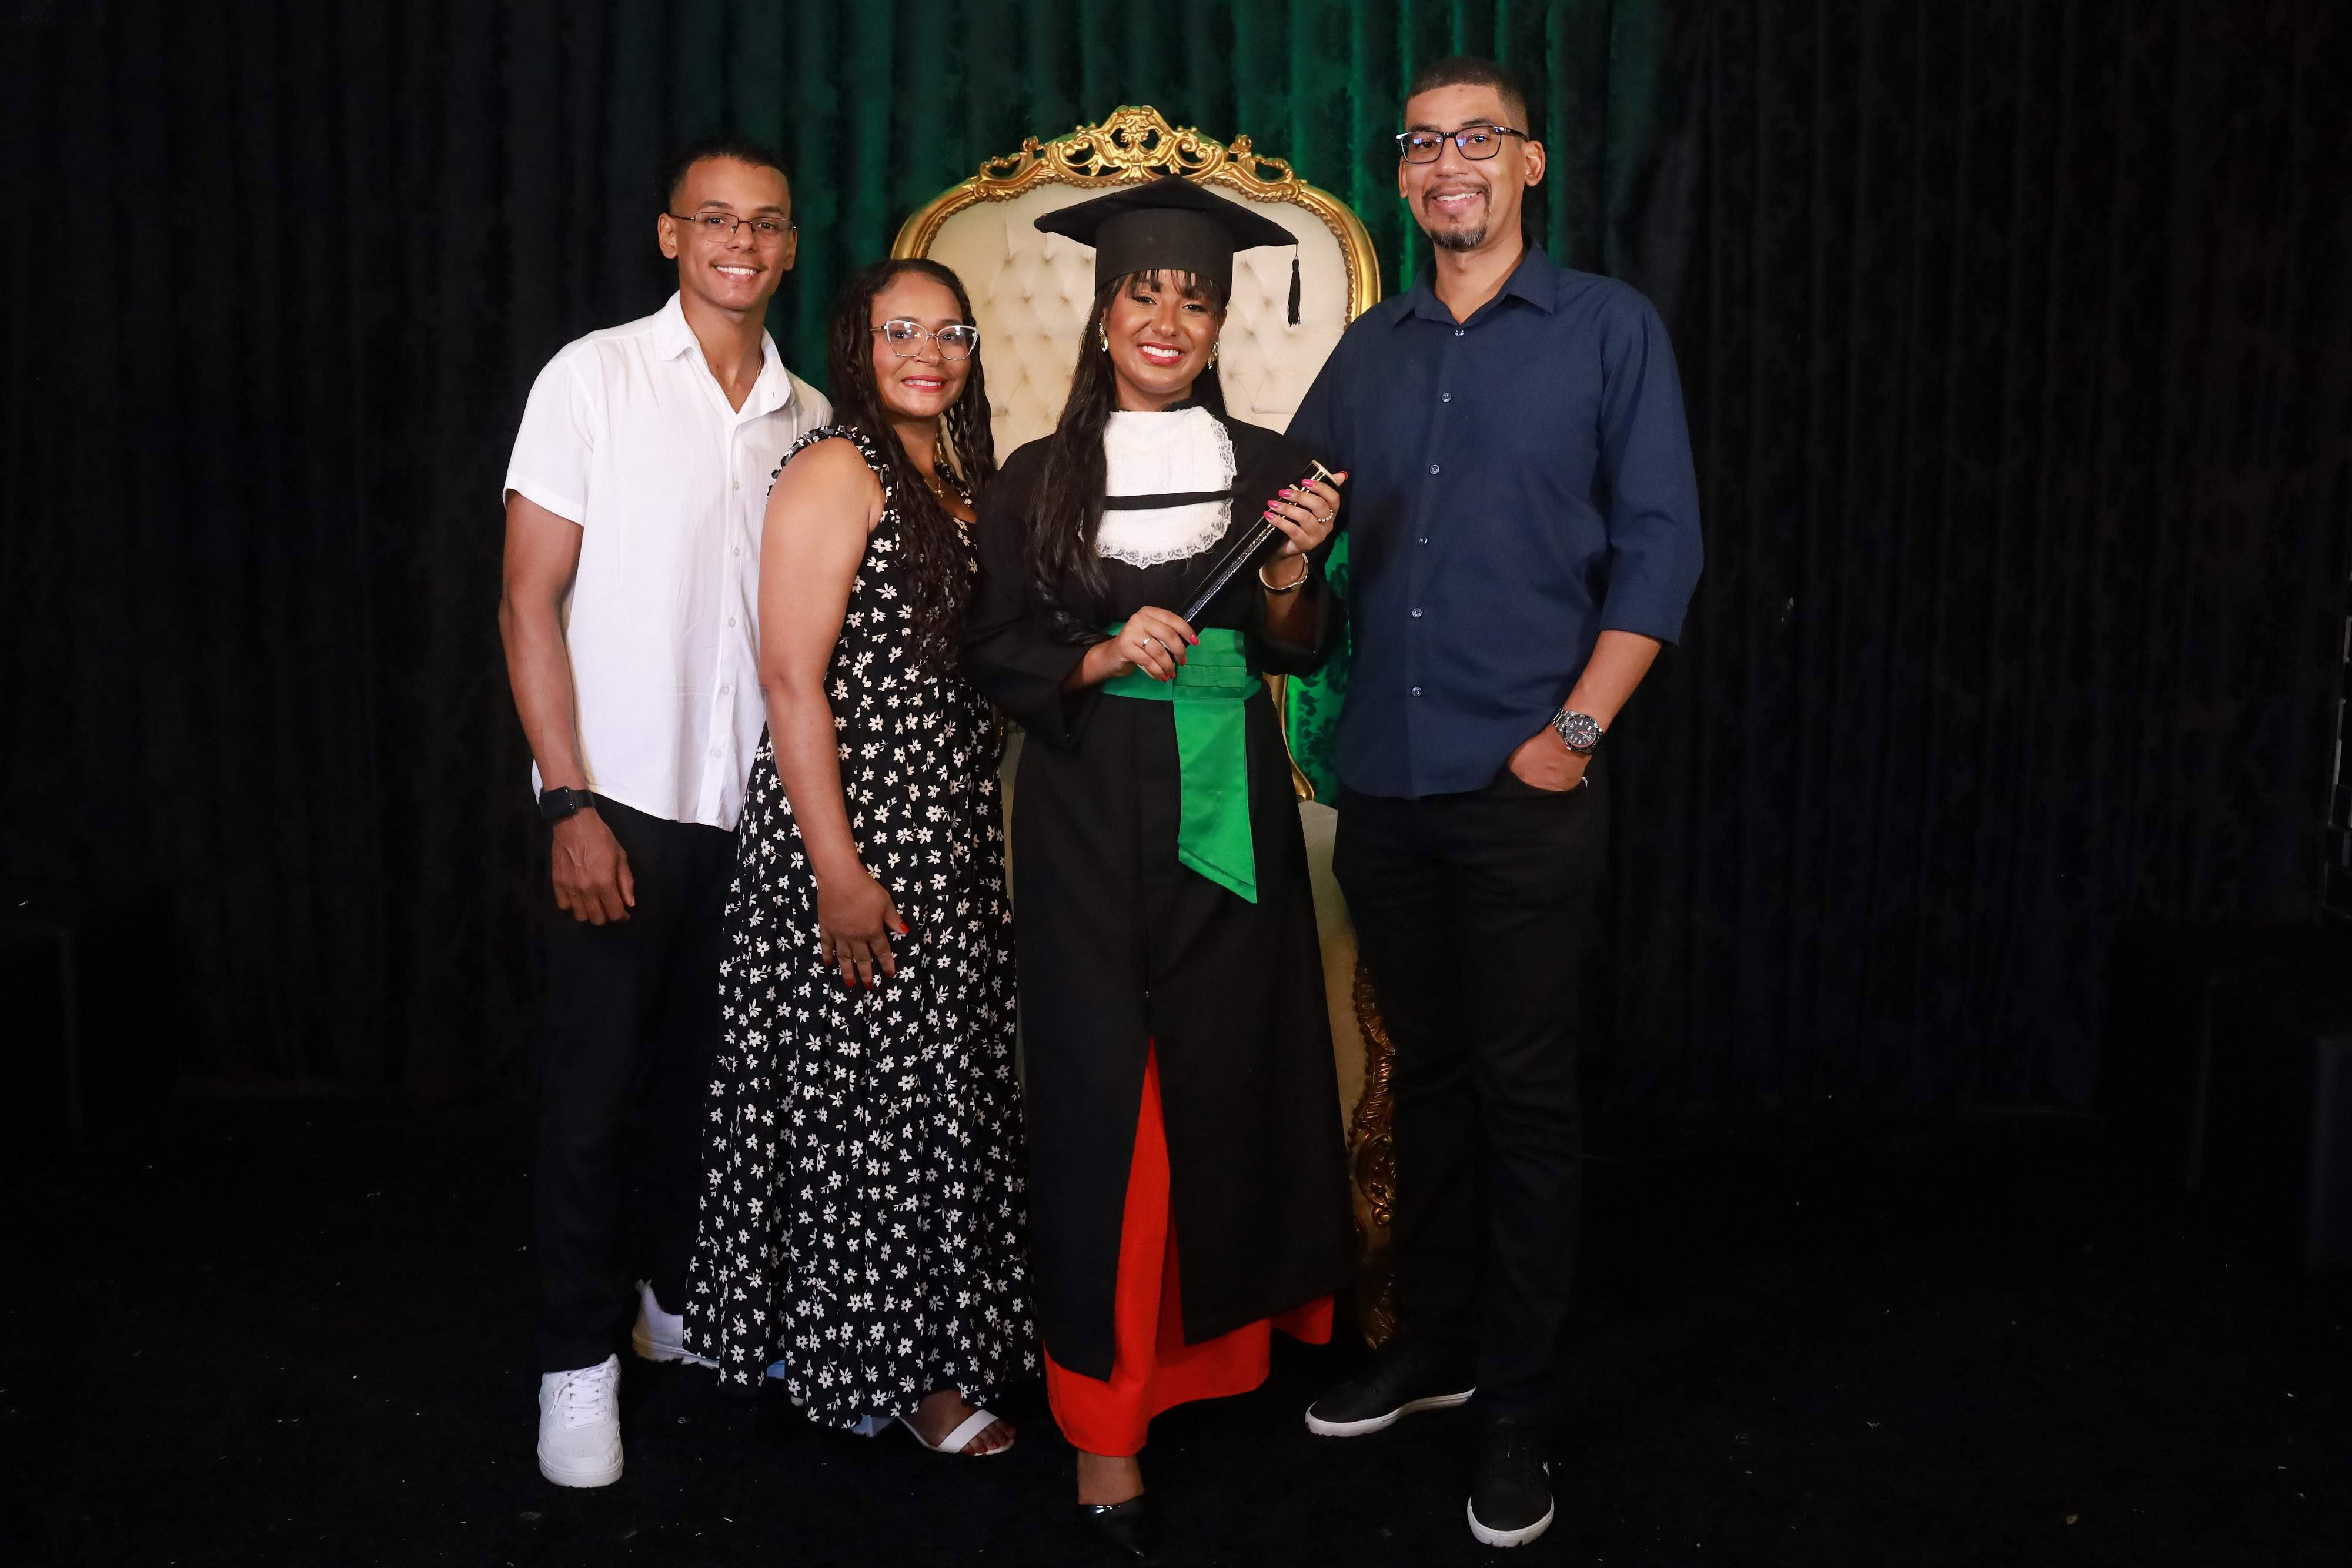
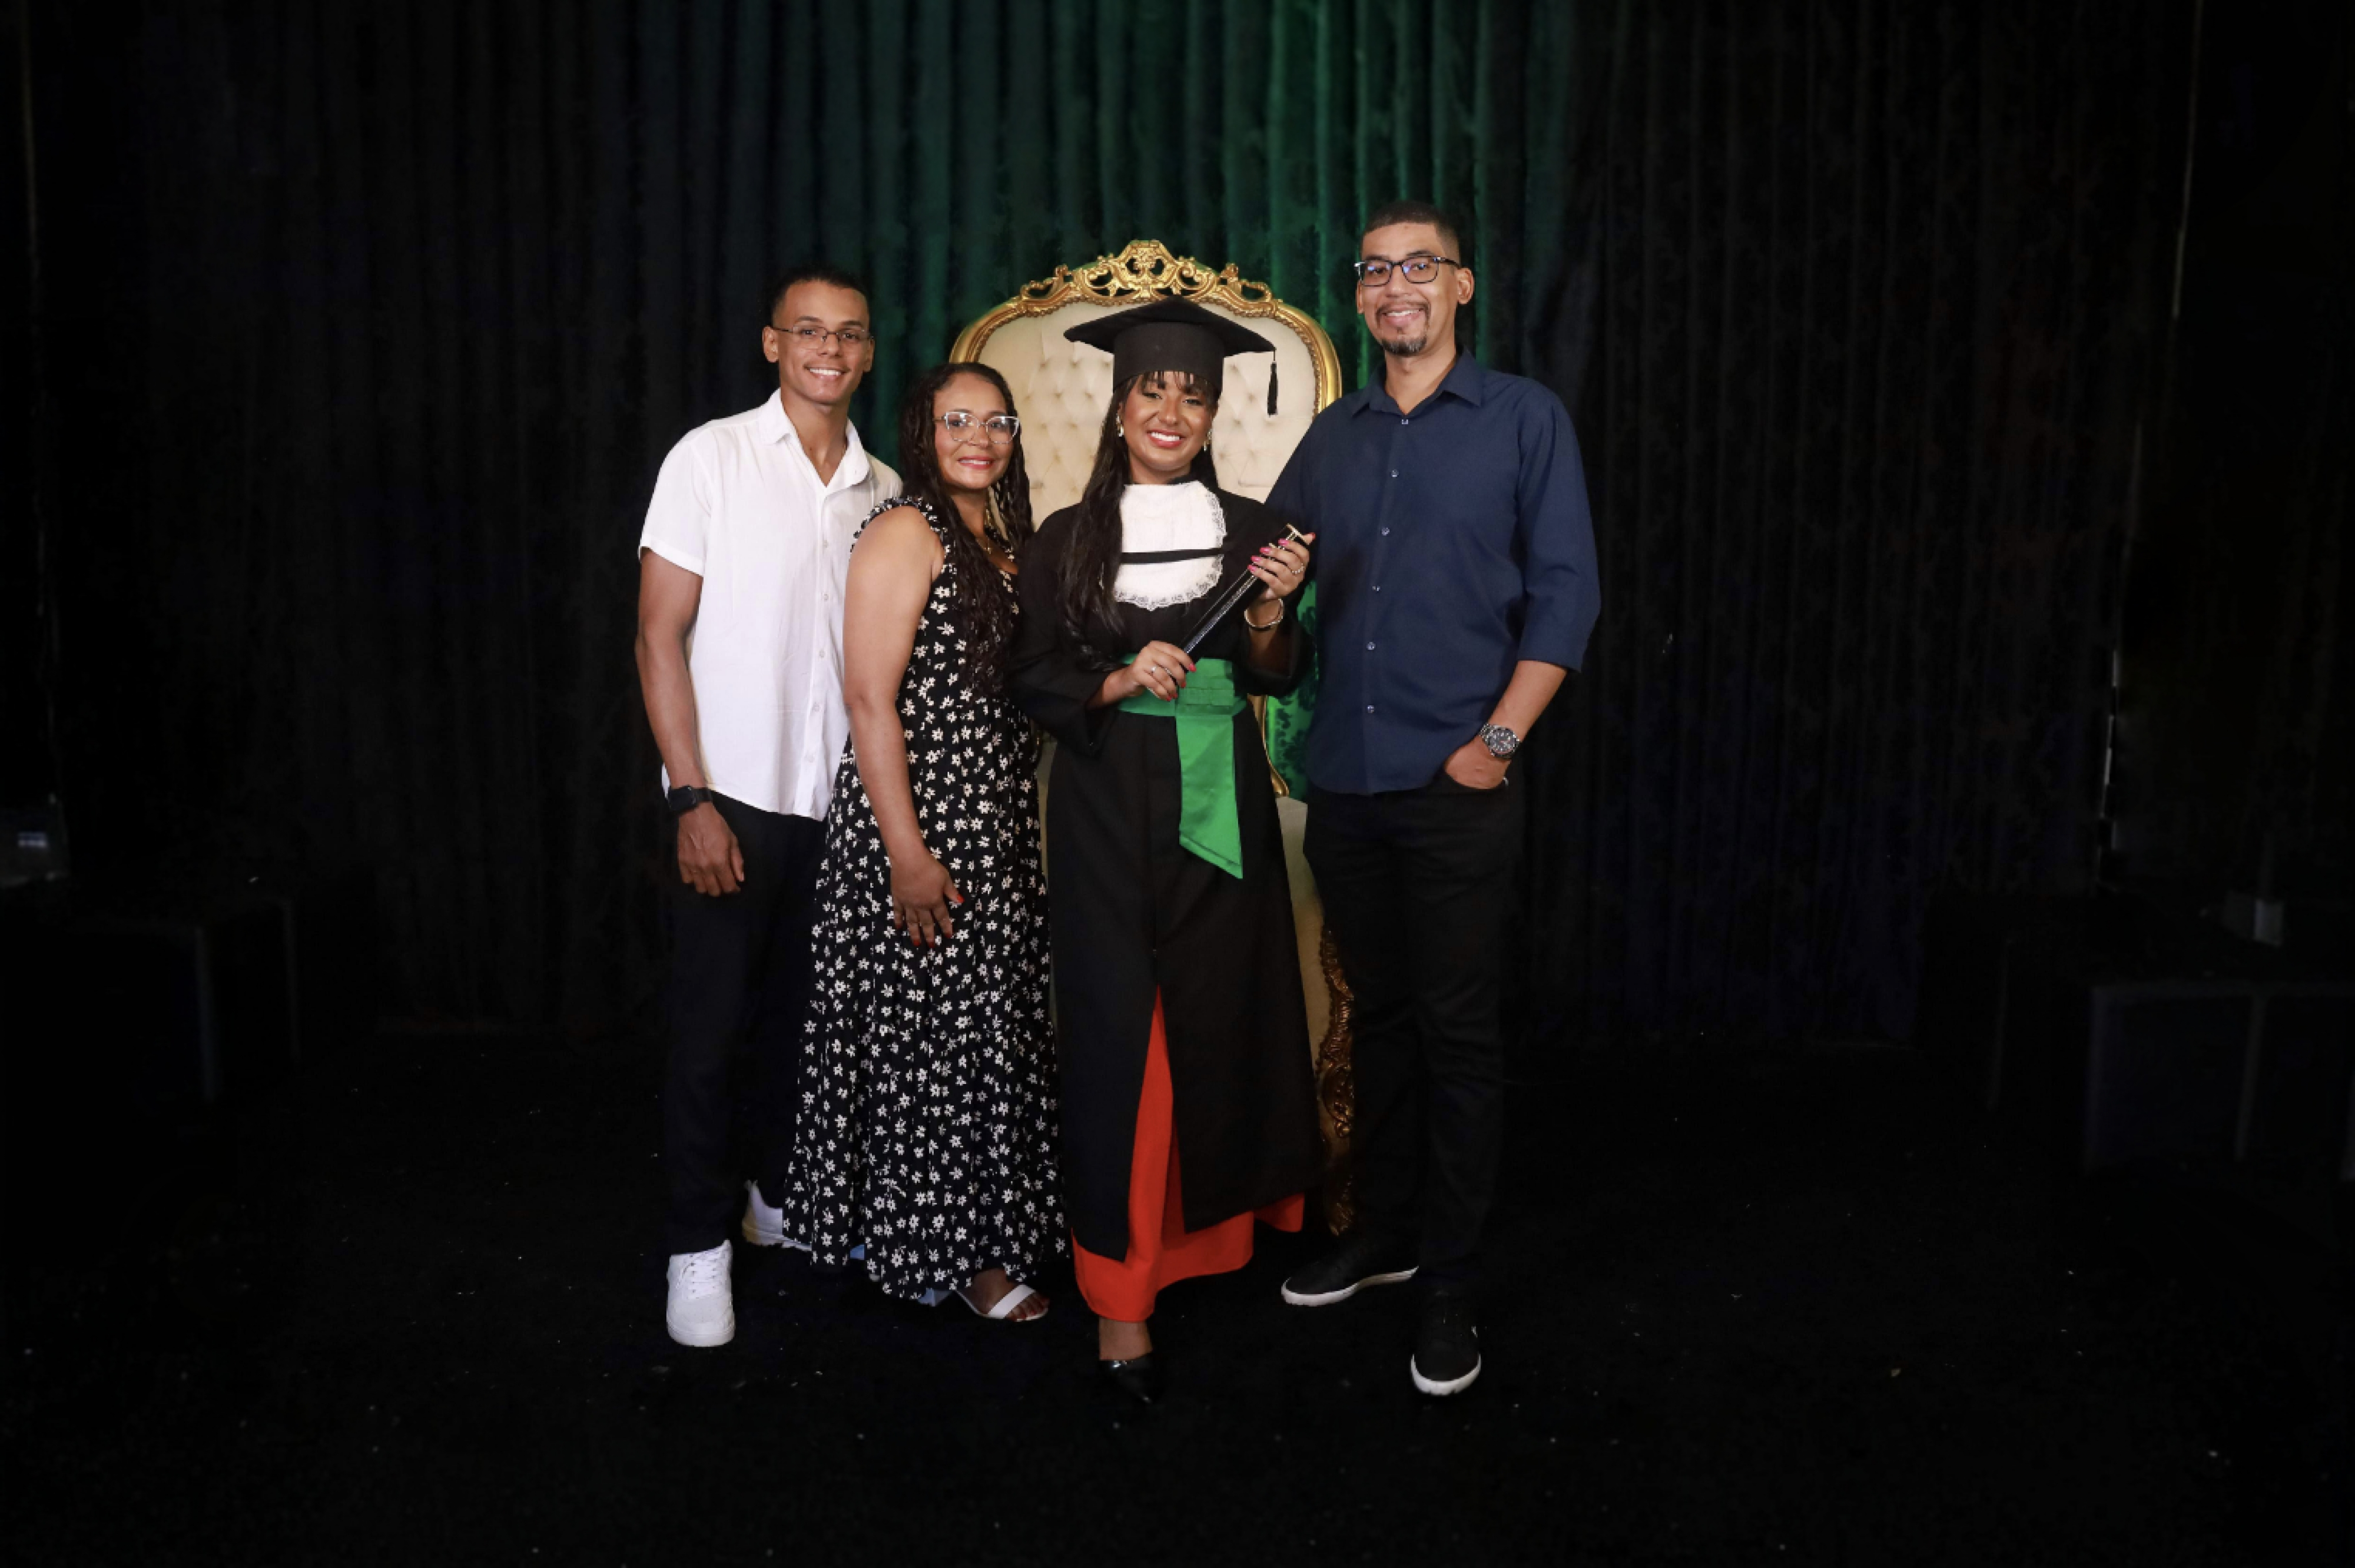
navegação

diff --git a/index.html b/index.html
@@ -675,11 +675,11 @@
     .agr-familia-section {
       position: relative;
       width: 100%;
-      padding-top: 60vw; /* Empurra o texto pra baixo para mostrar os rostos no topo */
+      padding-top: 90vw; /* Empurra o texto pra baixo para mostrar os rostos no topo */
       margin-top: 0;
     }
     @media (min-width: 768px) {
-      .agr-familia-section { padding-top: 50vh; }
+      .agr-familia-section { padding-top: 65vh; }
     }
 
     .agr-familia-bg {
@@ -703,16 +703,17 @@
       width: 100%;
       max-width: 800px;
       margin: 0 auto;
-      padding: 2rem 1.2rem 4rem;
+      padding: 0 1.2rem;
     }
 
     /* Porta-Retrato Digital da Família Completa */
     .agr-familia-completa {
       width: 100%;
-      margin: 2rem 0 0;
+      margin: 6rem 0 0;
       padding: 0;
       position: relative;
       z-index: 2;
+      background: linear-gradient(to bottom, transparent 75%, var(--black) 100%);
     }
     .agr-familia-completa img {
       width: 100%;
@@ -796,11 +797,13 @@
     ═══════════════════════════════════════════ */
     #rsvp {
       background: var(--green);
-      height: auto;
-      min-height: auto;
+      height: 100dvh; /* Garante que a tela preencha tudo e elimine a barra preta da proxima seçao */
+      min-height: 100dvh;
       padding: 4rem 1.2rem;
       position: relative;
       justify-content: center;
+      display: flex;
+      flex-direction: column;
     }
 
     .rsvp-glass-card {
@@ -1176,10 +1179,142 @@
       .cd-grid, .ev-list { max-width: 700px; }
       .rsvp-form { max-width: 480px; }
     }
+    /* ═══════════════════════════════════════════
+       HAMBURGER MENU & BUTTONS
+    ═══════════════════════════════════════════ */
+    #menu-btn {
+      position: fixed;
+      top: calc(env(safe-area-inset-top, 1.2rem) + 1.2rem);
+      left: 1.4rem;
+      z-index: 100;
+      background: rgba(13, 26, 18, 0.4);
+      backdrop-filter: blur(8px);
+      -webkit-backdrop-filter: blur(8px);
+      border: 1px solid rgba(201, 168, 76, 0.3);
+      border-radius: 50%;
+      width: 44px;
+      height: 44px;
+      display: flex;
+      flex-direction: column;
+      justify-content: center;
+      align-items: center;
+      gap: 5px;
+      cursor: pointer;
+      transition: background 0.3s ease;
+    }
+    #menu-btn:hover { background: rgba(13, 26, 18, 0.8); }
+    .menu-bar {
+      width: 20px;
+      height: 2px;
+      background: var(--gold);
+      transition: transform 0.3s ease, opacity 0.3s ease;
+    }
+    #menu-btn.open .menu-bar:nth-child(1) {
+      transform: translateY(7px) rotate(45deg);
+    }
+    #menu-btn.open .menu-bar:nth-child(2) {
+      opacity: 0;
+    }
+    #menu-btn.open .menu-bar:nth-child(3) {
+      transform: translateY(-7px) rotate(-45deg);
+    }
+
+    #menu-overlay {
+      position: fixed;
+      inset: 0;
+      background: rgba(0, 18, 11, 0.9);
+      backdrop-filter: blur(15px);
+      -webkit-backdrop-filter: blur(15px);
+      z-index: 90;
+      display: flex;
+      justify-content: center;
+      align-items: center;
+      opacity: 0;
+      pointer-events: none;
+      transition: opacity 0.4s ease;
+    }
+    #menu-overlay.open {
+      opacity: 1;
+      pointer-events: auto;
+    }
+
+    .menu-content {
+      display: flex;
+      flex-direction: column;
+      align-items: center;
+      gap: 2rem;
+      text-align: center;
+    }
+    .menu-link {
+      font-family: var(--font-serif);
+      font-size: clamp(1.8rem, 6vw, 2.5rem);
+      color: var(--cream);
+      text-decoration: none;
+      text-transform: uppercase;
+      letter-spacing: 0.1em;
+      opacity: 0;
+      transform: translateY(20px);
+      transition: color 0.3s ease;
+    }
+    #menu-overlay.open .menu-link {
+      animation: menuReveal 0.5s ease forwards;
+    }
+    #menu-overlay.open .menu-link:nth-child(1) { animation-delay: 0.1s; }
+    #menu-overlay.open .menu-link:nth-child(2) { animation-delay: 0.2s; }
+    #menu-overlay.open .menu-link:nth-child(3) { animation-delay: 0.3s; }
+    #menu-overlay.open .menu-link:nth-child(4) { animation-delay: 0.4s; }
+    #menu-overlay.open .menu-link:nth-child(5) { animation-delay: 0.5s; }
+
+    .menu-link:hover, .menu-link:active {
+      color: var(--gold);
+    }
+    
+    @keyframes menuReveal {
+      to { opacity: 1; transform: translateY(0); }
+    }
+    
+    .btn-hero {
+      display: inline-block;
+      margin-top: 1.5rem;
+      padding: 0.8rem 2rem;
+      background: var(--gold);
+      color: var(--black);
+      text-decoration: none;
+      font-family: var(--font-sans);
+      font-weight: 600;
+      letter-spacing: 0.15em;
+      text-transform: uppercase;
+      font-size: 0.85rem;
+      border-radius: 4px;
+      transition: background 0.3s ease;
+      opacity: 0;
+      animation: fadeIn 0.8s ease 2.2s forwards;
+    }
+    .btn-hero:hover {
+      background: var(--cream);
+    }
   </style>
 </head>
 <body>
 
+<!-- ════════════════════════════════
+     HAMBURGER MENU
+════════════════════════════════ -->
+<button id="menu-btn" aria-label="Abrir menu" aria-expanded="false">
+  <span class="menu-bar"></span>
+  <span class="menu-bar"></span>
+  <span class="menu-bar"></span>
+</button>
+
+<div id="menu-overlay" aria-hidden="true">
+  <div class="menu-content">
+    <a href="#hero" class="menu-link">Início</a>
+    <a href="#event" class="menu-link">O Evento</a>
+    <a href="#agradecimentos" class="menu-link">Agradecimentos</a>
+    <a href="#turma" class="menu-link">A Turma</a>
+    <a href="#rsvp" class="menu-link">Confirmar Presença</a>
+  </div>
+</div>
 <!-- ════════════════════════════════
      SPLASH SCREEN
 ════════════════════════════════ -->
@@ -1226,6 +1361,7 @@
       <h1 class="hero-name" id="hero-name" aria-label="Ludmila Paixão">LUDMILA PAIXÃO</h1>
       <div class="hero-divider" aria-hidden="true"></div>
       <p class="hero-phrase">Uma nova história começa aqui.</p>
+      <a href="#rsvp" class="btn-hero" onclick="scrollToRsvp(event)">Confirmar Presença</a>
     </div>
 
     <div class="scroll-hint" aria-hidden="true">
@@ -1265,38 +1401,7 @@
     <div class="typographic-ornament reveal d4">— ✦ —</div>
   </section>
 
-  <!-- ──── RSVP (REPOSICIONADO PARA TOPO) ──── -->
-  <section id="rsvp" aria-label="Confirmar presença">
-    <div class="rsvp-glass-card reveal">
-      <div class="typographic-ornament">— ✦ —</div>
-      <h2 class="rsvp-title">Confirme sua<br>Presença</h2>
 
-      <form class="rsvp-form" id="rsvp-form" novalidate>
-        <div class="form-field" id="field-nome">
-          <input type="text" id="inp-nome" placeholder=" " autocomplete="given-name" inputmode="text">
-          <label for="inp-nome">Nome</label>
-          <span class="field-err" aria-live="polite">Por favor, informe seu nome</span>
-        </div>
-
-        <div class="form-field" id="field-sob">
-          <input type="text" id="inp-sob" placeholder=" " autocomplete="family-name" inputmode="text">
-          <label for="inp-sob">Sobrenome</label>
-          <span class="field-err" aria-live="polite">Por favor, informe seu sobrenome</span>
-        </div>
-
-        <div class="typographic-ornament" style="font-size: 0.8rem; margin: 0.5rem 0 0;" aria-hidden="true">✦</div>
-        <p class="rsvp-inst">
-          Sua presença é muito importante para nós! Solicitamos que confirme sua participação o quanto antes.<br><br>
-          O acesso ao cerimonial será permitido apenas às pessoas com presença confirmada na lista.
-        </p>
-
-        <button type="submit" class="btn-rsvp" id="btn-rsvp">
-          <span class="btn-txt">Confirmar Presença</span>
-          <div class="btn-loader" aria-hidden="true"></div>
-        </button>
-      </form>
-    </div>
-  </section>
 
   <!-- ──── SEÇÃO 3: DETALHES DO EVENTO ──── -->
   <section id="event" aria-label="Detalhes do evento">
@@ -1380,7 +1485,7 @@
     <!-- Família com Fundo Integrado Seguro -->
     <div class="agr-familia-section reveal">
       <div class="agr-familia-bg">
-        <img src="img/familia principal.jpg" alt="Família Principal" loading="lazy">
+        <img src="img/familia principall.jpg" alt="Família Principal" loading="lazy">
       </div>
       <div class="agr-familia-content">
         <p class="agr-subheading" style="text-align: center">À Família</p>
@@ -1408,6 +1513,39 @@
       <p class="turma-text">
         Compartilhar esta caminhada com vocês tornou tudo ainda mais especial. Entre desafios, aprendizados e muitas conquistas, construímos lembranças que levarei para sempre.
       </p>
+    </div>
+  </section>
+
+  <!-- ──── RSVP (FINAL) ──── -->
+  <section id="rsvp" aria-label="Confirmar presença">
+    <div class="rsvp-glass-card reveal">
+      <div class="typographic-ornament">— ✦ —</div>
+      <h2 class="rsvp-title">Confirme sua<br>Presença</h2>
+
+      <form class="rsvp-form" id="rsvp-form" novalidate>
+        <div class="form-field" id="field-nome">
+          <input type="text" id="inp-nome" placeholder=" " autocomplete="given-name" inputmode="text">
+          <label for="inp-nome">Nome</label>
+          <span class="field-err" aria-live="polite">Por favor, informe seu nome</span>
+        </div>
+
+        <div class="form-field" id="field-sob">
+          <input type="text" id="inp-sob" placeholder=" " autocomplete="family-name" inputmode="text">
+          <label for="inp-sob">Sobrenome</label>
+          <span class="field-err" aria-live="polite">Por favor, informe seu sobrenome</span>
+        </div>
+
+        <div class="typographic-ornament" style="font-size: 0.8rem; margin: 0.5rem 0 0;" aria-hidden="true">✦</div>
+        <p class="rsvp-inst">
+          Sua presença é muito importante para nós! Solicitamos que confirme sua participação o quanto antes, <strong>até dia 30</strong>.<br><br>
+          O acesso ao cerimonial será permitido apenas às pessoas com presença confirmada na lista.
+        </p>
+
+        <button type="submit" class="btn-rsvp" id="btn-rsvp">
+          <span class="btn-txt">Confirmar Presença</span>
+          <div class="btn-loader" aria-hidden="true"></div>
+        </button>
+      </form>
     </div>
   </section>
 
@@ -1851,6 +1989,46 @@ document.addEventListener('click', firstTouch, { once: true });
 // Attempt autoplay immediately
 window.addEventListener('load', tryPlay);
 tryPlay();
+
+/* ── HAMBURGER MENU & NAV ───────────────────────────── */
+const menuBtn = document.getElementById('menu-btn');
+const menuOverlay = document.getElementById('menu-overlay');
+const menuLinks = document.querySelectorAll('.menu-link');
+
+function toggleMenu() {
+  const isOpen = menuOverlay.classList.contains('open');
+  if (isOpen) {
+    menuOverlay.classList.remove('open');
+    menuBtn.classList.remove('open');
+    menuBtn.setAttribute('aria-expanded', 'false');
+  } else {
+    menuOverlay.classList.add('open');
+    menuBtn.classList.add('open');
+    menuBtn.setAttribute('aria-expanded', 'true');
+  }
+}
+
+menuBtn.addEventListener('click', toggleMenu);
+
+menuLinks.forEach(link => {
+  link.addEventListener('click', (e) => {
+    e.preventDefault();
+    toggleMenu();
+    const targetId = link.getAttribute('href').substring(1);
+    const targetEl = document.getElementById(targetId);
+    if (targetEl) {
+      setTimeout(() => {
+        targetEl.scrollIntoView({ behavior: 'smooth' });
+      }, 300);
+    }
+  });
+});
+
+function scrollToRsvp(e) {
+  e.preventDefault();
+  const rsvpSec = document.getElementById('rsvp');
+  if (rsvpSec) rsvpSec.scrollIntoView({ behavior: 'smooth' });
+}
 
 </script>
 </body>